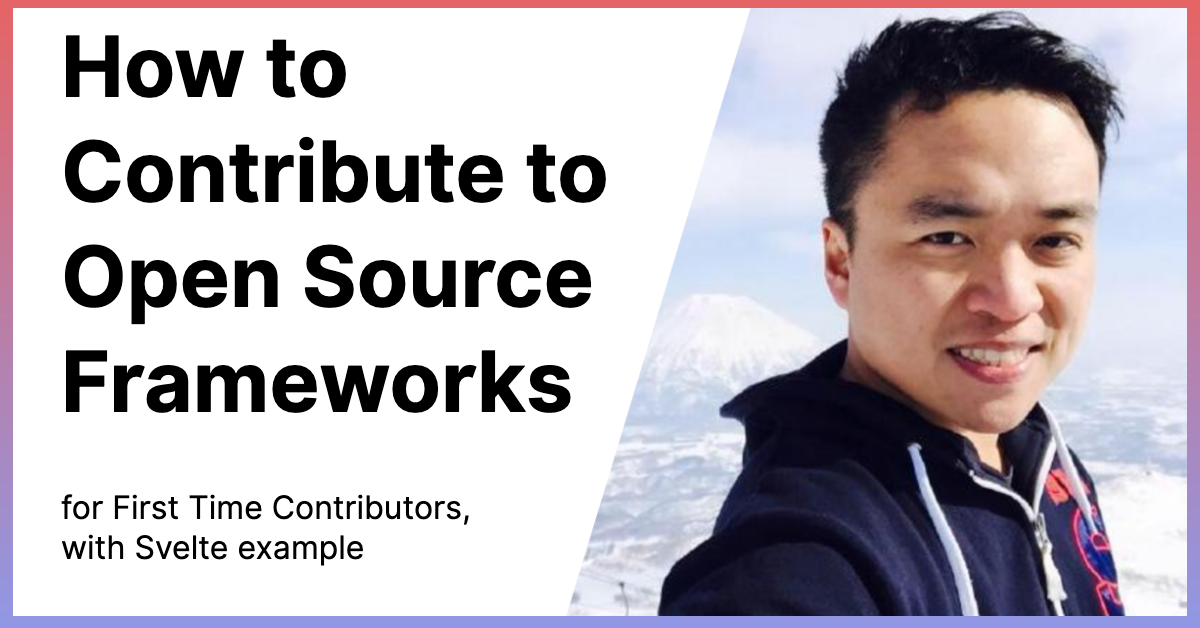
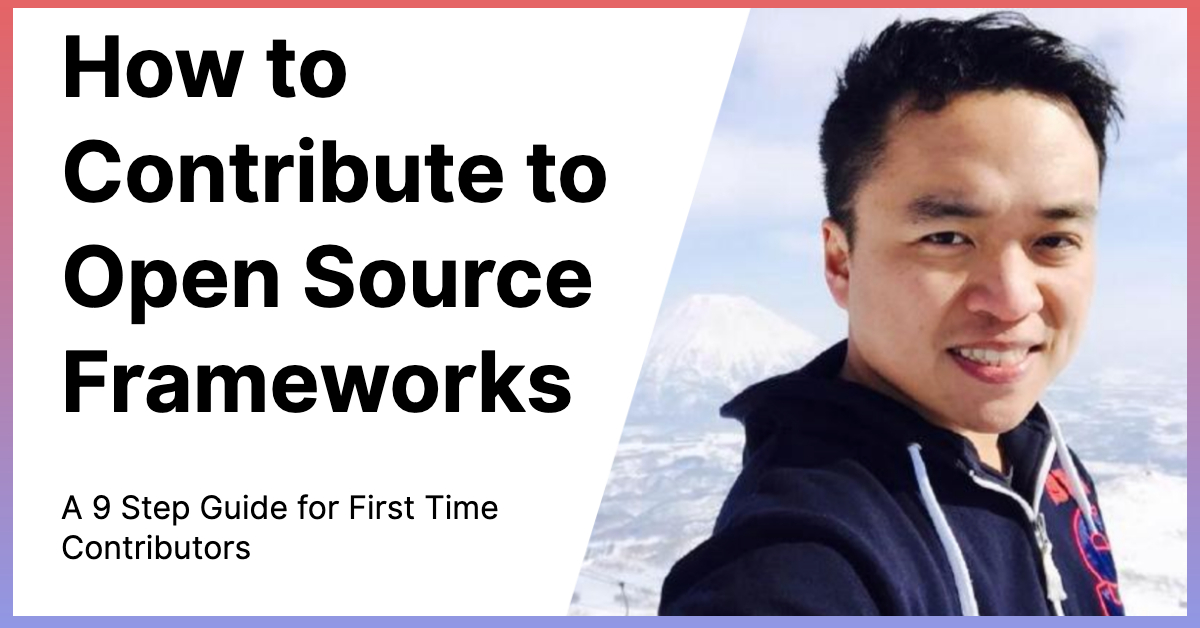
new img

Changed region(s): [[0.0308, 0.7866, 0.4317, 0.9076]]

diff --git a/content/writing/technical/svelte/svelte-contributing.md b/content/writing/technical/svelte/svelte-contributing.md
@@ -1,11 +1,25 @@
 ---
 title: How to Contribute to Open Source Frameworks
-subtitle: for First Time Contributors, with Svelte example
+subtitle: A 9 Step Guide for First Time Contributors
 slug: svelte-contributing
 categories: ['Tech', 'Svelte']
 description: One of the best ways to level up in programming is to contribute to a high quality open source project, especially a framework.
 date: 2020-02-15
 ---
+
+## TL;DR
+
+1. **Setup**
+2. **Look for similar code**
+3. **Look for similar tests**
+4. **Write your own test**
+5. **Run your tests**
+6. **Write your code**
+7. **Pass local tests**
+8. **Fix fixtures**
+9. mystery.. read on!
+
+## Background
 
 I've [contributed to React](https://www.swyx.io/speaking/contributing-to-react/) before, and though I didn't become a regular contributor, it definitely gave me a deeper appreciation of how React worked internally, and how a high quality open source framework is run (which is a whole nother level of abstraction from normal app code). 
 
@@ -36,7 +50,7 @@ For example, there should be an open issue acknowledged by maintainers. Don't sk
 
 Here are the high level steps to follow:
 
-1. Setup
+1. **Setup**
   - Fork the repo
   - `git clone` it locally
   - `npm install` 
@@ -45,30 +59,30 @@ Here are the high level steps to follow:
     - You're gonna have to run it at the end, so might as well run it at the start to make sure you have everything setup right. Sometimes you need to setup extra env vars and stuff like that. For Svelte, nothing is needed, just run `npm test`
   - Read `CONTRIBUTING.md`
     - many projects have uninformative `CONTRIBUTING.md`'s, but often you at least get some good hints on project structure and contribution requirements (e.g. a [CLA](https://en.wikipedia.org/wiki/Contributor_License_Agreement))
-2. Look for similar code
+2. **Look for similar code**
 	- it is unlikely that you're contributing something totally novel, so hopefully there is something similar nearby
 	- For me, I found [this code](https://github.com/sveltejs/svelte/blob/2b3c2daafb854d04100e0648910083d493bcb1d7/src/runtime/internal/keyed_each.ts#L111), which was used [here](https://github.com/sveltejs/svelte/blob/6250046c052eb360e51b272c55870cff71f41a70/src/compiler/compile/render_dom/wrappers/EachBlock.ts#L377). It isn't EXACTLY a copy and paste job, but it gave me enough context that my solution was going to look the same.
-3. Look for similar tests
+3. **Look for similar tests**
 	- That code is (hopefully) tested - so let's look for the corresponding tests!
 	- For me, I used the error `Cannot have duplicate keys in a keyed each` and [found this test](https://github.com/sveltejs/svelte/tree/1a343b165c577429e968cea48607cccabf714b9b/test/runtime/samples/keyed-each-dev-unique).
 	- There are also often several different ways to test things, so use this as an opportunity to study which approach is used to test which kinds of features - you may have to defend your choice in future.
-4. Write your own test
+4. **Write your own test**
   - I copied the test out and adapted it to expect the error/warning I was aiming to add
 	- For Svelte, you can [prototype it in the REPL](https://svelte.dev/repl/hello-world?version=3) to ensure your test case fails as you expect
-5. Run your tests
+5. **Run your tests**
 	- To know that the test is properly written, and that you understand the test harness, you should run your test to see it *fail* first before you try to make it succeed.
   - In Svelte, you can run `npm test` for all tests and `npm run test -- -g REGEX_FOR_SPECIFIC_TESTS` for individual groups of tests by regex so that you can iterate faster. For me, I ended up running `npm run test -- -g dev-warning-each-block` - you get this instruction from `CONTRIBUTING.md`
-6. Write your code
+6. **Write your code**
 	- Now you know how your test fails, time to make your tests pass!
 	- You may run into other dependencies, and have to yak shave a bit. For me, I ran into the new and not-well documented `code-red` dependency, and [sent in a PR](https://github.com/Rich-Harris/code-red/pull/34) to update the docs for myself and for others. I think it is quite common to run into further documentation issues while working on an existing PR, because existing maintainers have the info in their heads, and so this is often a further contribution opportunity.
 	- By now you have seen a decent part of the codebase - try to match the code style/conventions of the surrounding code, including Prettier/Linting settings.
-7. Pass local tests
+7. **Pass local tests**
 	- Bounce between 6 and 7 ad infinitum until you are sure your tests fail and pass in the right scenarios and not in each others' scenarios.
 	- Speed is important here - run local test groups (eg `npm run test -- -g REGEX_FOR_SPECIFIC_TESTS`) rather than rerun all tests every time (eg `npm run test`)
 	- Because Svelte is a compiler, when you run the test, every test folder gets an `/_output` folder generated with the intermediate compiled code, which you can manually inspect to ensure where your code is going wrong
-8. Fix fixtures
+8. **Fix fixtures**
 	- If you affect any output code, you will probably break some fixtures and snapshots. Make sure nothing untoward is going on, then copy and paste into the fixtures to update them!
-9. Blog about it, do a Talk about it
+9. **Blog about it, do a Talk about it**
 	- What, you expect me not to encourage you to pass on your knowledge? 
 
 ## [Here is the final PR](https://github.com/sveltejs/svelte/pull/4419) I made.
